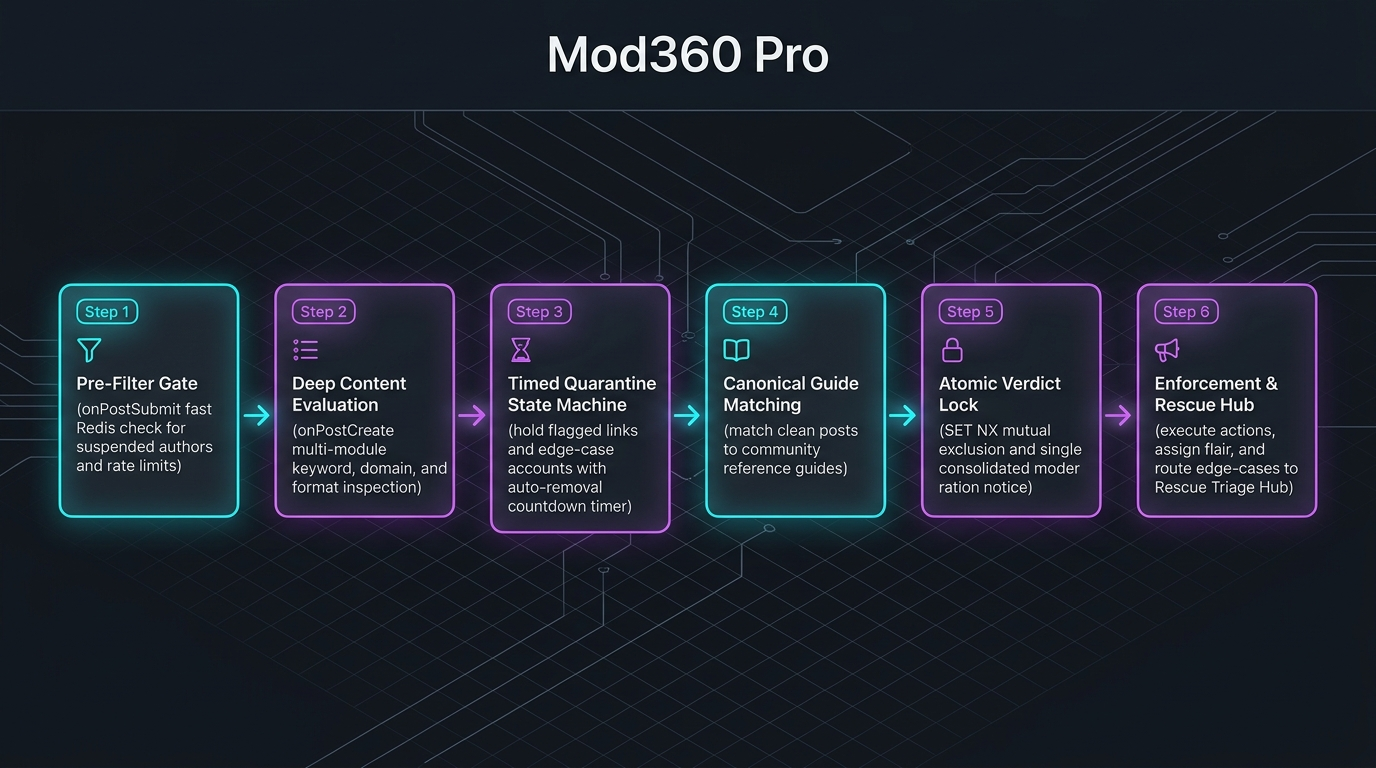
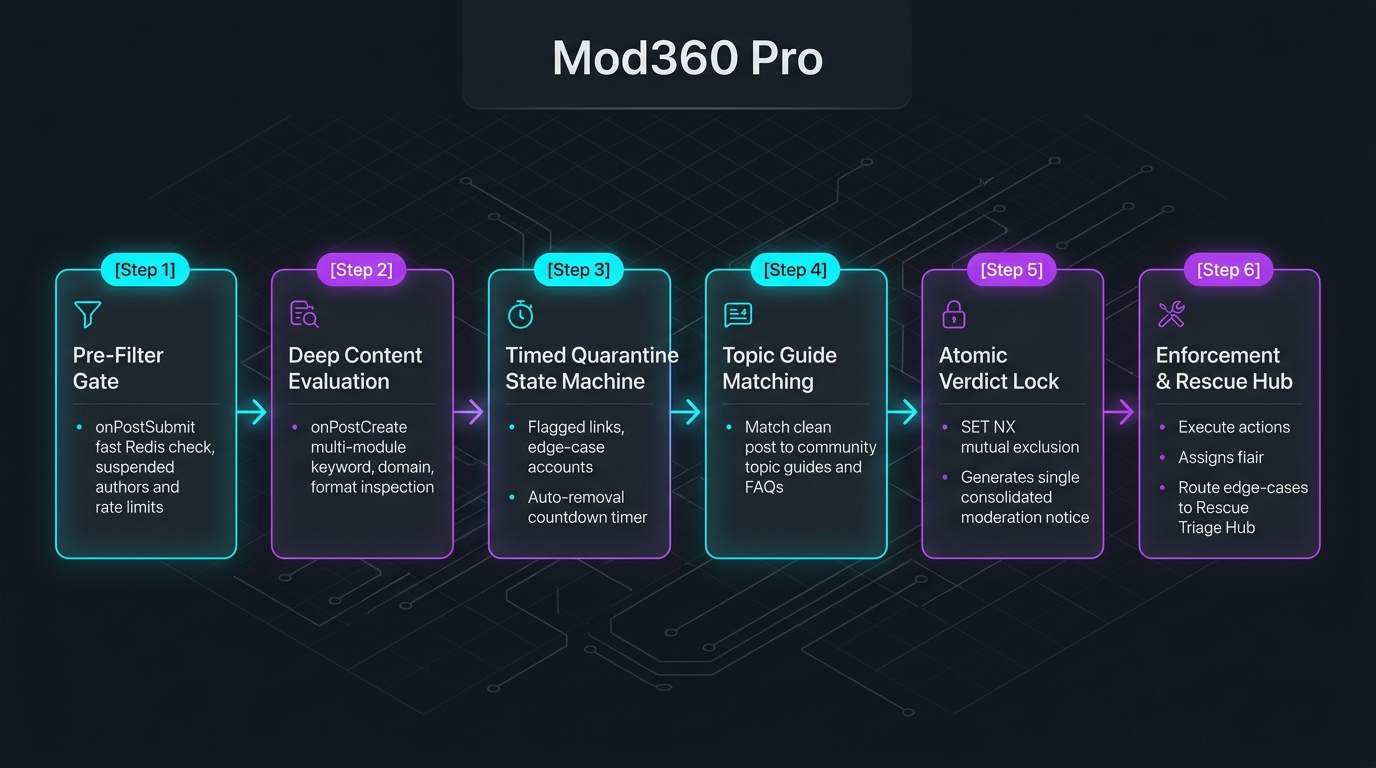
docs(mod360pro): update flowchart and wiki docs for Topic Guides

diff --git a/mod360pro/readme.html b/mod360pro/readme.html
@@ -1,13 +1,13 @@
 <blockquote><p>📖 <strong>User Guide &amp; Overview</strong> | ⚙ <a href="https://www.reddit.com/r/grantdb/wiki/index/all-apps/mod360pro">View Deep Technical Reference &amp; Settings Spec</a></p></blockquote>
 <h1>Mod360 Pro</h1>
 <blockquote><p><strong>The ultimate 360-degree Reddit moderation control center delivering an enterprise-grade, lightning-fast waterfall evaluation engine.</strong></p></blockquote>
-<p>Mod360 Pro unifies keyword filters, domain policies, sliding-window rate limits, duplicate detection, user eligibility gates, timed quarantine state machines, canonical guide suggestions, false-positive rescue triage, two-way wiki sync, and disaster recovery snapshots into a single atomic moderation pipeline. End fragmented moderation scripts, eliminate competing bot sticky comments, and govern community safety from an intuitive, high-contrast dashboard.</p>
+<p>Mod360 Pro unifies keyword filters, domain policies, sliding-window rate limits, duplicate detection, user eligibility gates, timed quarantine state machines, topic guide suggestions, false-positive rescue triage, two-way wiki sync, and disaster recovery snapshots into a single atomic moderation pipeline. End fragmented moderation scripts, eliminate competing bot sticky comments, and govern community safety from an intuitive, high-contrast dashboard.</p>
 <h3>⚡ Key Highlights</h3>
 <ul>
 <li><strong>Atomic Two-Phase Waterfall Engine</strong>: Sub-10ms pre-AutoMod Redis fast-path (`onPostSubmit`) for spam floods, followed by deep multi-module content evaluation (`onPostCreate`).</li>
 <li><strong>Timed Quarantine State Machine</strong>: Filter blocked domains and unverified accounts into a timed quarantine with configurable auto-removal countdowns and 1-click mod release.</li>
 <li><strong>Single Consolidated Moderation Notice</strong>: No more competing bot comments. Violations across all modules accumulate into exactly one structured, professional notice.</li>
-<li><strong>Modular Safety Architecture</strong>: Native modules for account status filtering, flair & email verification tiers, canonical wiki guide suggestions, 0–100 safety score calculation, false-positive rescue triage, two-way wiki sync, and modmail disaster recovery snapshots.</li>
+<li><strong>Modular Safety Architecture</strong>: Native modules for account status filtering, flair & email verification tiers, topic wiki guide suggestions, 0–100 safety score calculation, false-positive rescue triage, two-way wiki sync, and modmail disaster recovery snapshots.</li>
 <li><strong>In-Feed Mod Quick Actions</strong>: Instant context menu tools (`Check Reputation`, `Quick Approve`, `Quick Remove`, and `Export Backup to Modmail`) directly on community posts and comments.</li>
 <li><strong>Mutual-Exclusion Atomic Verdict Lock</strong>: `SET NX` concurrency locks eliminate double-removal race conditions and container collisions across all trigger events.</li>
 <li><strong>Zero-Risk Shadow Testing Mode</strong>: Safely run Mod360 Pro in background shadow mode with automated divergence tracking before switching to live enforcement.</li>
@@ -19,7 +19,7 @@
 <p>1. <strong>Pre-Filter (onPostSubmit)</strong>: New submissions hit fast Redis-only gates (< 10ms) to check suspended/shadowbanned authors, sliding-window rate limits, duplicate hash fingerprints, and verification gates.</p>
 <p>2. <strong>Deep Content Evaluation (onPostCreate)</strong>: Surviving posts undergo modular inspection for domain allow/blocklists, prohibited keywords, title formatting, and composite rules.</p>
 <p>3. <strong>Timed Quarantine Triage</strong>: Configurable rules route suspicious links or edge-case users into a temporary quarantine state with automated expiration timers.</p>
-<p>4. <strong>Canonical Guide Suggestions</strong>: Clean, non-violating submissions are evaluated against community topic keywords to suggest authoritative guides.</p>
+<p>4. <strong>Topic Guide Suggestions</strong>: Clean, non-violating submissions are evaluated against community topic keywords to suggest helpful wiki guides and FAQs.</p>
 <p>5. <strong>Atomic Verdict & Single Sticky Notice</strong>: When violations occur, Mod360 Pro locks the verdict atomically, logs candidate details for false-positive rescue, and formats a single clean markdown notice.</p>
 <p>6. <strong>Auto-Flair & Mod Actions</strong>: Clean submissions receive automated flair matching, while removed content is automatically locked and logged to the unified audit trail.</p>
 <p>---</p>
@@ -35,7 +35,7 @@
 <li><strong>Suspended Account Pre-Filter</strong>: Sub-10ms fast gate rejecting suspended, shadowbanned, or deleted accounts before other checks run.</li>
 <li><strong>Timed Quarantine State Machine</strong>: Configure blocked domains and suspended accounts to filter into temporary quarantine for a set duration (15m, 30m, 1h, 2h, 4h, 8h, 24h, 48h) before permanent removal.</li>
 <li><strong>Verification Tiers & Email Gates</strong>: Require approved author flair templates, flair badges, or verified Reddit email addresses.</li>
-<li><strong>Canonical Guide Suggestions</strong>: Automatically match submissions against community guide topics and post helpful guide links on clean posts.</li>
+<li><strong>Topic Guide Suggestions</strong>: Automatically match submissions against community guide topics and post helpful guide links on clean posts.</li>
 <li><strong>Reputation Safety Score & Mod Menu Actions</strong>: 0–100 reputation score calculated from account age, karma, and status with in-feed menu actions (`Check Reputation`, `Quick Approve`, `Quick Remove`).</li>
 <li><strong>False-Positive Rescue Hub</strong>: Triage hub in dashboard capturing edge-case removals for instant 1-click restoration.</li>
 <li><strong>Two-Way Wiki Policy Sync</strong>: Synchronize active content rules, domain policies, and user gates directly to and from `r/subreddit/wiki/mod360_rules`.</li>

diff --git a/mod360pro/wiki.html b/mod360pro/wiki.html
@@ -16,7 +16,7 @@ Summary: Unified 360-degree moderation engine and waterfall pipeline consolidati
 <li>Suspended Account Pre-Filter: Sub-10ms fast gate rejecting suspended, shadowbanned, or deleted accounts before other checks run.</li>
 <li>Timed Quarantine State Machine: Configure blocked domains and suspended accounts to filter into temporary quarantine for a set duration (15m, 30m, 1h, 2h, 4h, 8h, 24h, 48h) before permanent removal.</li>
 <li>Verification Tiers & Email Gates: Require approved author flair templates, flair badges, or verified Reddit email addresses.</li>
-<li>Canonical Guide Suggestions: Automatically match submissions against community guide topics and post helpful guide links on clean posts.</li>
+<li>Topic Guide Suggestions: Automatically match submissions against community guide topics and post helpful guide links on clean posts.</li>
 <li>Reputation Safety Score & Mod Menu Actions: 0–100 reputation score calculated from account age, karma, and status with in-feed menu actions (`Check Reputation`, `Quick Approve`, `Quick Remove`).</li>
 <li>False-Positive Rescue Hub: Triage hub in dashboard capturing edge-case removals for instant 1-click restoration.</li>
 <li>Two-Way Wiki Policy Sync: Synchronize active content rules, domain policies, and user gates directly to and from `r/subreddit/wiki/mod360_rules`.</li>

diff --git a/mod360pro/readme.md b/mod360pro/readme.md
@@ -4,13 +4,13 @@
 
 > **The ultimate 360-degree Reddit moderation control center delivering an enterprise-grade, lightning-fast waterfall evaluation engine.**
 
-Mod360 Pro unifies keyword filters, domain policies, sliding-window rate limits, duplicate detection, user eligibility gates, timed quarantine state machines, canonical guide suggestions, false-positive rescue triage, two-way wiki sync, and disaster recovery snapshots into a single atomic moderation pipeline. End fragmented moderation scripts, eliminate competing bot sticky comments, and govern community safety from an intuitive, high-contrast dashboard.
+Mod360 Pro unifies keyword filters, domain policies, sliding-window rate limits, duplicate detection, user eligibility gates, timed quarantine state machines, topic guide suggestions, false-positive rescue triage, two-way wiki sync, and disaster recovery snapshots into a single atomic moderation pipeline. End fragmented moderation scripts, eliminate competing bot sticky comments, and govern community safety from an intuitive, high-contrast dashboard.
 
 ### ⚡ Key Highlights
 - **Atomic Two-Phase Waterfall Engine**: Sub-10ms pre-AutoMod Redis fast-path (`onPostSubmit`) for spam floods, followed by deep multi-module content evaluation (`onPostCreate`).
 - **Timed Quarantine State Machine**: Filter blocked domains and unverified accounts into a timed quarantine with configurable auto-removal countdowns and 1-click mod release.
 - **Single Consolidated Moderation Notice**: No more competing bot comments. Violations across all modules accumulate into exactly one structured, professional notice.
-- **Modular Safety Architecture**: Native modules for account status filtering, flair & email verification tiers, canonical wiki guide suggestions, 0–100 safety score calculation, false-positive rescue triage, two-way wiki sync, and modmail disaster recovery snapshots.
+- **Modular Safety Architecture**: Native modules for account status filtering, flair & email verification tiers, topic wiki guide suggestions, 0–100 safety score calculation, false-positive rescue triage, two-way wiki sync, and modmail disaster recovery snapshots.
 - **In-Feed Mod Quick Actions**: Instant context menu tools (`Check Reputation`, `Quick Approve`, `Quick Remove`, and `Export Backup to Modmail`) directly on community posts and comments.
 - **Mutual-Exclusion Atomic Verdict Lock**: `SET NX` concurrency locks eliminate double-removal race conditions and container collisions across all trigger events.
 - **Zero-Risk Shadow Testing Mode**: Safely run Mod360 Pro in background shadow mode with automated divergence tracking before switching to live enforcement.
@@ -26,7 +26,7 @@ Mod360 Pro unifies keyword filters, domain policies, sliding-window rate limits,
 1. **Pre-Filter (onPostSubmit)**: New submissions hit fast Redis-only gates (< 10ms) to check suspended/shadowbanned authors, sliding-window rate limits, duplicate hash fingerprints, and verification gates.
 2. **Deep Content Evaluation (onPostCreate)**: Surviving posts undergo modular inspection for domain allow/blocklists, prohibited keywords, title formatting, and composite rules.
 3. **Timed Quarantine Triage**: Configurable rules route suspicious links or edge-case users into a temporary quarantine state with automated expiration timers.
-4. **Canonical Guide Suggestions**: Clean, non-violating submissions are evaluated against community topic keywords to suggest authoritative guides.
+4. **Topic Guide Suggestions**: Clean, non-violating submissions are evaluated against community topic keywords to suggest helpful wiki guides and FAQs.
 5. **Atomic Verdict & Single Sticky Notice**: When violations occur, Mod360 Pro locks the verdict atomically, logs candidate details for false-positive rescue, and formats a single clean markdown notice.
 6. **Auto-Flair & Mod Actions**: Clean submissions receive automated flair matching, while removed content is automatically locked and logged to the unified audit trail.
 
@@ -48,7 +48,7 @@ Mod360 Pro unifies keyword filters, domain policies, sliding-window rate limits,
 - **Suspended Account Pre-Filter**: Sub-10ms fast gate rejecting suspended, shadowbanned, or deleted accounts before other checks run.
 - **Timed Quarantine State Machine**: Configure blocked domains and suspended accounts to filter into temporary quarantine for a set duration (15m, 30m, 1h, 2h, 4h, 8h, 24h, 48h) before permanent removal.
 - **Verification Tiers & Email Gates**: Require approved author flair templates, flair badges, or verified Reddit email addresses.
-- **Canonical Guide Suggestions**: Automatically match submissions against community guide topics and post helpful guide links on clean posts.
+- **Topic Guide Suggestions**: Automatically match submissions against community guide topics and post helpful guide links on clean posts.
 - **Reputation Safety Score & Mod Menu Actions**: 0–100 reputation score calculated from account age, karma, and status with in-feed menu actions (`Check Reputation`, `Quick Approve`, `Quick Remove`).
 - **False-Positive Rescue Hub**: Triage hub in dashboard capturing edge-case removals for instant 1-click restoration.
 - **Two-Way Wiki Policy Sync**: Synchronize active content rules, domain policies, and user gates directly to and from `r/subreddit/wiki/mod360_rules`.

diff --git a/mod360pro/wiki.md b/mod360pro/wiki.md
@@ -15,7 +15,7 @@ Unified 360-degree moderation engine and waterfall pipeline consolidating 14+ mo
 - Suspended Account Pre-Filter: Sub-10ms fast gate rejecting suspended, shadowbanned, or deleted accounts before other checks run.
 - Timed Quarantine State Machine: Configure blocked domains and suspended accounts to filter into temporary quarantine for a set duration (15m, 30m, 1h, 2h, 4h, 8h, 24h, 48h) before permanent removal.
 - Verification Tiers & Email Gates: Require approved author flair templates, flair badges, or verified Reddit email addresses.
-- Canonical Guide Suggestions: Automatically match submissions against community guide topics and post helpful guide links on clean posts.
+- Topic Guide Suggestions: Automatically match submissions against community guide topics and post helpful guide links on clean posts.
 - Reputation Safety Score & Mod Menu Actions: 0–100 reputation score calculated from account age, karma, and status with in-feed menu actions (`Check Reputation`, `Quick Approve`, `Quick Remove`).
 - False-Positive Rescue Hub: Triage hub in dashboard capturing edge-case removals for instant 1-click restoration.
 - Two-Way Wiki Policy Sync: Synchronize active content rules, domain policies, and user gates directly to and from `r/subreddit/wiki/mod360_rules`.
